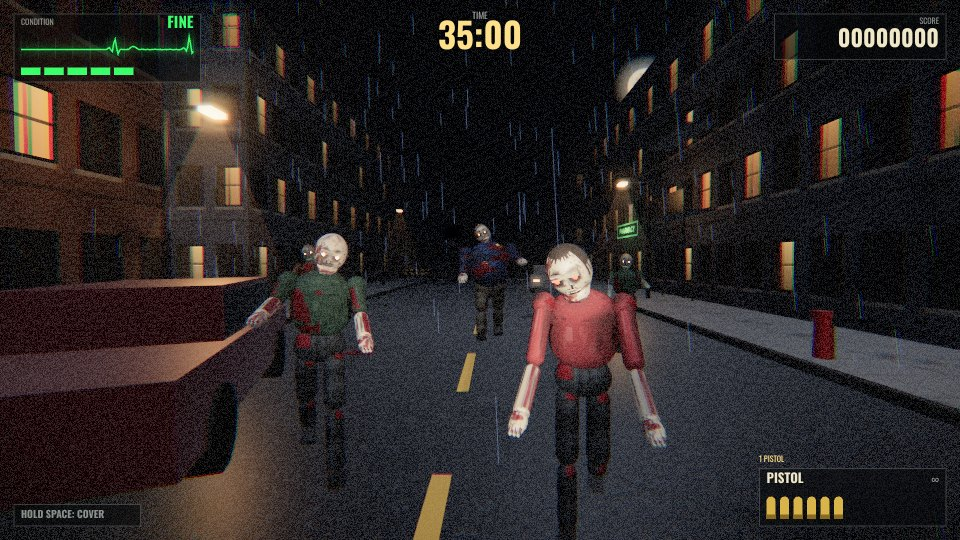
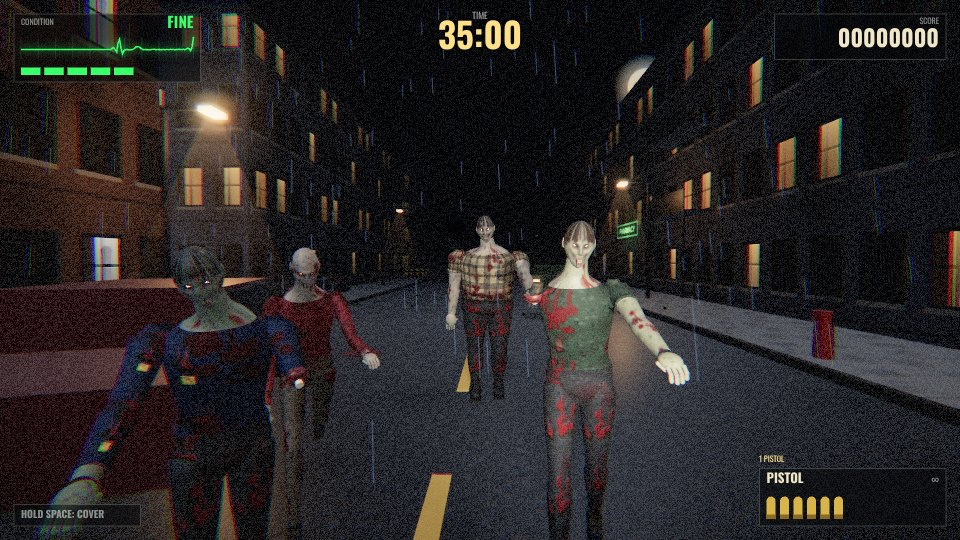
Update README screenshot with the new zombies

diff --git a/README.md b/README.md
@@ -1,6 +1,6 @@
 # GRAVE SHIFT
 
-![Zombies shambling down a rain-soaked street at night](./docs/screenshot.jpg)
+![Zombies, one missing an arm, shambling down a rain-soaked street at night](./docs/screenshot.jpg)
 
 A browser zombie **rail shooter** in the spirit of the classic arcade light-gun games: the camera moves you through the level on rails while you aim and shoot with the mouse. It combines three influences:
 
